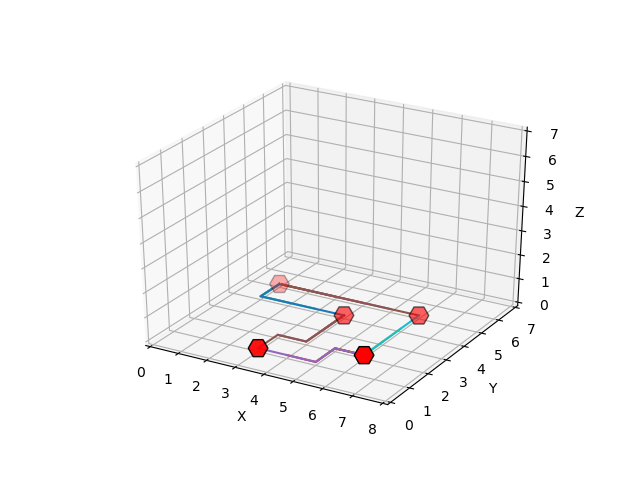
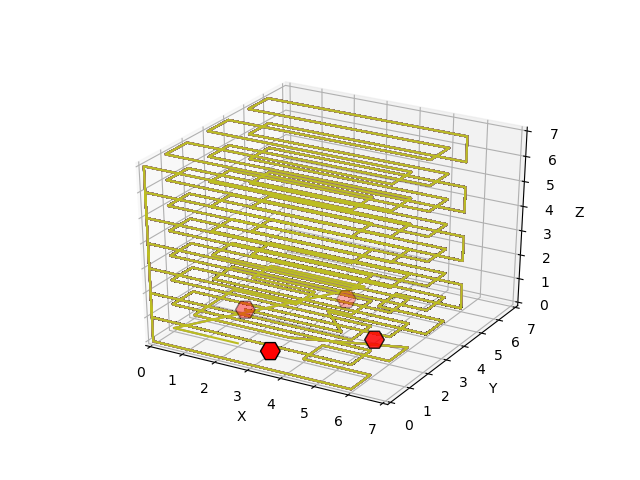
start iddfs

diff --git a/code/algorithms/iddfs.py b/code/algorithms/iddfs.py
@@ -1,0 +1,80 @@
+from collections import defaultdict 
+
+def get_neighbours(grid, node, end):
+	""" Get neighbour nodes of current node """
+
+	neighbours = defaultdict(list)
+
+	# determine position of neighbour nodes
+	for n in [(1, 0, 0), (-1, 0, 0), (0, 1, 0), (0, -1, 0), (0, 0, 1), (0, 0, -1)]:
+		neighbour = (node[0] + n[0], node[1] + n[1], node[2] + n[2])
+		
+		# make sure the next position is within the grid
+		if neighbour[0] > (len(grid) -1) or neighbour[0] < 0 or neighbour[1] > (len(grid[0]) -1) or neighbour[1] < 0 or neighbour[2] > (len(grid[0][0]) -1) or neighbour[2] < 0:
+			continue
+		
+		# make sure the next position is not already occupied
+		if grid[neighbour[0]][neighbour[1]][neighbour[2]] != False and neighbour != end:
+			continue
+
+		neighbours[node].append(neighbour)
+
+	return neighbours
+
+
+def dfs(neighbours, start, end, visited, grid):
+	""" Perform depth first search recursively until end node is reached """
+
+	if start not in visited:
+		visited.append(start)
+
+		for node in neighbours[start]:
+			if node == end:
+				return visited
+			dfs(get_neighbours(grid, node, end), node, end, visited, grid)
+	return visited
+
+
+def execute_dfs(net_cor, chip):
+	""" Execute dfs function for all nets """
+
+	grid = chip.grid
+	output_dict = {}
+
+	for net in net_cor:
+		start = net[0]
+		end = net[1]
+
+		neighbours = get_neighbours(grid, start, end)
+		path = dfs(neighbours, start, end, [], grid)
+		
+		for node in path:
+			grid[node[0]][node[1]][node[2]] = True
+
+		output_dict[net] = path
+	print("output", output_dict)
+	return output_dict
+
+
+def iddfs(grid, node, end):
+	for depth in range(grid):
+		found = dls(node, end, depth, grid)
+		if found is not None:
+			return found
+
+def dls(node, end, depth, grid):
+	if depth == 0:
+		if node == end:
+			return node
+		# not found, but may have children
+		else:
+			return None
+	
+	elif depth > 0:
+		# any remaining = False
+
+		neighbours = get_neighbours(grid, node, end)
+		for node in neighbours:
+			found = dls(node, end, depth-1, grid)
+			if found is not None:
+				return found

diff --git a/main.py b/main.py
@@ -27,7 +27,7 @@ if __name__ == '__main__':
 			req_chip = 'chip_2'
 			break
 		elif req_chip.lower() == 'test':
-			chip_path = 'data/test/print.csv'
+			chip_path = 'data/test/print_1.csv'
 			req_chip = 'test'
 			break
 		else:
@@ -50,8 +50,8 @@ if __name__ == '__main__':
 
 	# let user choose an algorithm
 	while True:
-		alg_req = input("Which algorithm would you like to use? (xyz_move, straight_first, random_netlist, straight_random, astar)\n").lower()
-		if alg_req == 'xyz_move' or alg_req == 'straight_first' or alg_req == 'random_netlist' or alg_req == 'straight_random' or alg_req == 'astar':
+		alg_req = input("Which algorithm would you like to use? (xyz_move, straight_first, random_netlist, straight_random, astar, dfs)\n").lower()
+		if alg_req == 'xyz_move' or alg_req == 'straight_first' or alg_req == 'random_netlist' or alg_req == 'straight_random' or alg_req == 'astar' or alg_req == 'dfs':
 			break
 		else:
 			print("This algorithm does not exist.")

diff --git a/code/classes/wiring.py b/code/classes/wiring.py
@@ -15,6 +15,7 @@ from code.algorithms.straight_first import straight_wire
 from code.algorithms.random_netlist import random_wire 
 from code.algorithms.astar import execute_astar
 from code.algorithms.straight_random import straight_random_wire
+from code.algorithms.iddfs import execute_dfs
 
 class Wiring():
 	""" This class outputs wires to connect gates as listed in netlist. """
@@ -42,6 +43,8 @@ class Wiring():
 			algorithm = straight_random_wire
 		elif alg_req == 'astar':
 			algorithm = execute_astar
+		elif alg_req == 'dfs':
+			algorithm = execute_dfs
 
 		return algorithm
 

diff --git a/PROCESS.md b/PROCESS.md
@@ -137,3 +137,6 @@ https://www.geeksforgeeks.org/shortest-distance-two-cells-matrix-grid/
 [A* algorithm](https://gist.github.com/jamiees2/5531924)
 
 https://matplotlib.org/
+
+
+https://stackoverflow.com/questions/43430309/depth-first-search-dfs-code-in-python/51865899
